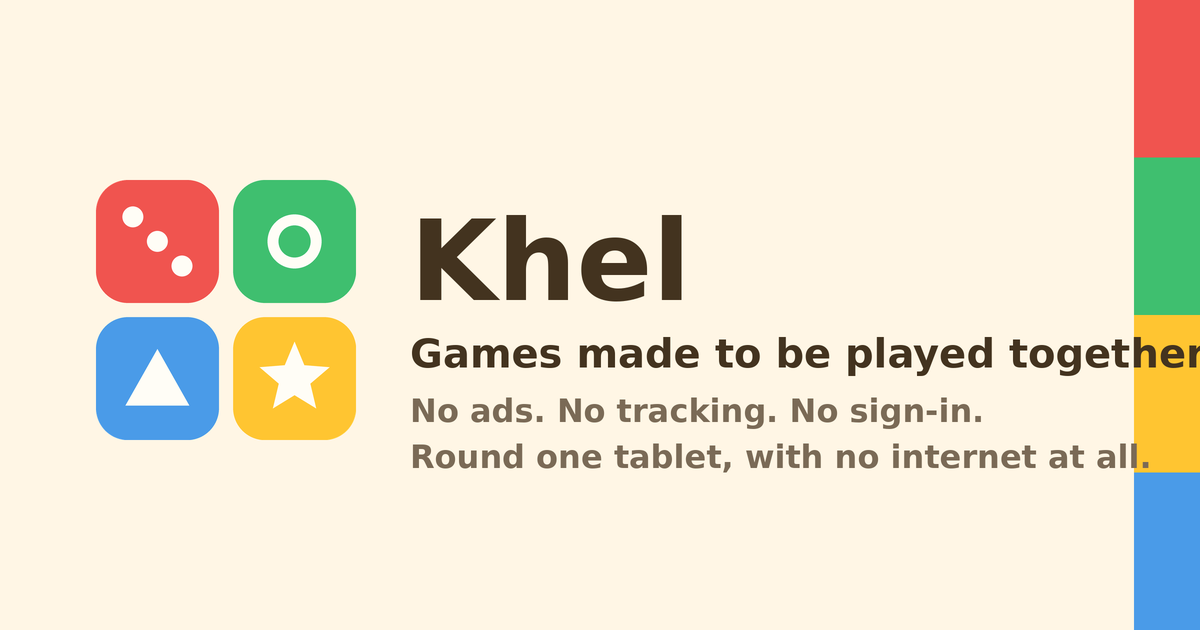
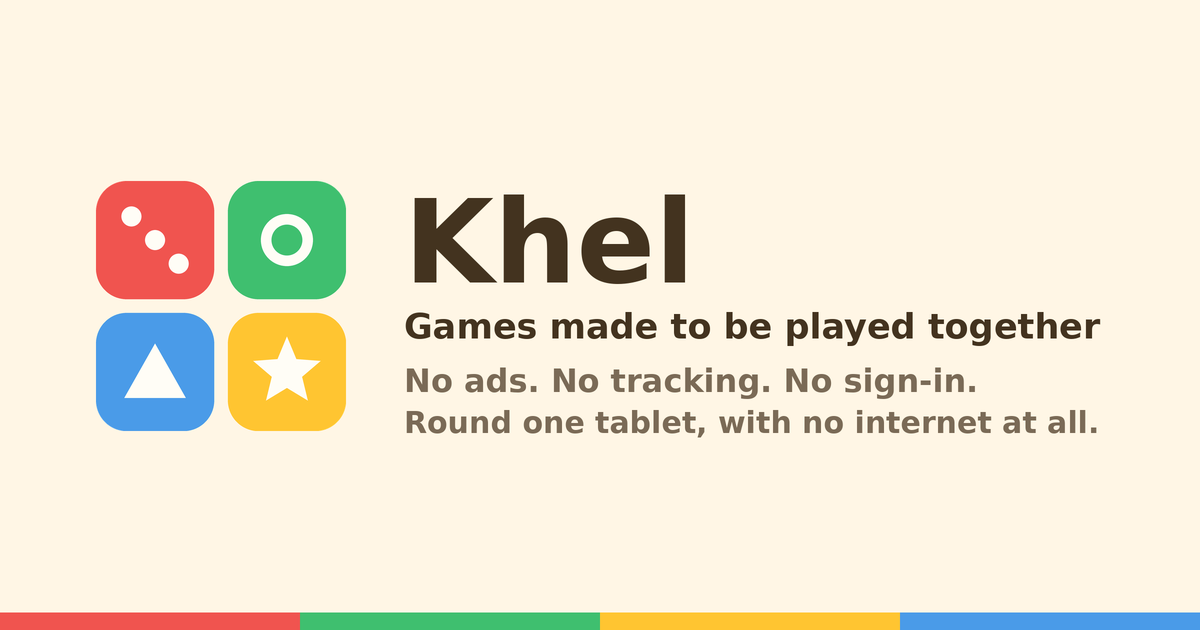
Chueen, Mamma and Dada — and animals to play against
The family starts as the three of them, with the first two seated,
since that's who is usually holding the tablet. Anyone else is added
when they turn up.

The computer's players are animals in the colour of the piece they're
playing: Red Panda, Green Frog, Yellow Duck, Blue Whale. Better to
root against than a robot, and easier to say. The seat card shows the
animal alone — the piece beside it already says the colour, and the
full name was being cut off.

The link preview card was spilling its text off the right edge after
the wording changed and nobody re-measured. Every line is now measured
and shrunk to fit, the build fails rather than shipping a sliced word,
and the colour band moved to the bottom where no crop can reach it.
The sanity check also verifies the image is the size the meta tags
claim.

Changed region(s): [[0.0, 0.0, 1.0, 1.0], [0.0617, 0.2714, 0.3083, 0.7238], [0.0925, 0.3317, 0.1233, 0.3619]]

diff --git a/js/table.js b/js/table.js
@@ -19,10 +19,11 @@ import { sfx, unlock } from './audio.js';
  * @param opts.game      'ludo' — used for this game's own seats and scores
  * @param opts.order     colour keys, in turn order
  * @param opts.colors    { red: { main, dark, name }, … }
- * @param opts.cpuNames  { red: 'Robo Red', … }
+ * @param opts.cpuNames  { red: 'Red Panda', … }
+ * @param opts.cpuFaces  { red: '🐼', … }
  */
 export function createTable(opts) {
-  const { seatsEl, playEl, resetEl, pickEl, game, order, colors, cpuNames } = opts;
+  const { seatsEl, playEl, resetEl, pickEl, game, order, colors, cpuNames, cpuFaces } = opts;
   const KEY = { seats: `khel.${game}.seats`, tally: `khel.${game}.tally` };
 
   const read = (key, fallback) => {
@@ -86,8 +87,11 @@ export function createTable(opts) {
       const colour = card.dataset.colour;
       const who = occupants[colour];
       card.dataset.state = who === 'cpu' ? 'cpu' : (isPerson(who) ? 'human' : 'off');
+      // the piece already says which colour it is, so the card only needs
+      // the animal — the full "Yellow Duck" shows wherever there's room
+      const animal = cpuNames[colour].split(' ').pop();
       card.querySelector('[data-role="who"]').textContent =
-        who === 'cpu' ? `🤖 ${cpuNames[colour]}` : (isPerson(who) ? family.label(who) : 'Empty');
+        who === 'cpu' ? `${cpuFaces[colour]} ${animal}` : (isPerson(who) ? family.label(who) : 'Empty');
 
       const wins = isPerson(who) ? (tally[who] || 0) : 0;
       card.querySelector('[data-role="tally"]').textContent = wins ? `🏆 ${wins}` : '';
@@ -122,7 +126,7 @@ export function createTable(opts) {
           ${taken.has(m.id) ? '<span class="pick-note">already playing</span>' : ''}
         </button>`),
       `<button class="pick-option" data-who="cpu">
-         <span class="pick-dot pick-robot">🤖</span>
+         <span class="pick-dot pick-robot">${cpuFaces[colour]}</span>
          <span class="pick-name">${cpuNames[colour]}</span>
          ${occupants[colour] === 'cpu' ? '<span class="pick-tick">✓</span>' : ''}
        </button>`,

diff --git a/games/ludo/config.js b/games/ludo/config.js
@@ -27,10 +27,13 @@ export const COLORS = {
   blue:   { main: '#4A9BE8', dark: '#2E76B8', light: '#D3E8FB', name: 'Blue' },
 };
 
-/* Friendlier than "Player 2" when a seat is taken by the computer */
+/* The computer's players. An animal a four-year-old can name, in the
+   colour of the piece it's playing — easier to root against than a robot. */
 export const CPU_NAMES = {
-  red: 'Robo Red', green: 'Go-Go Green', yellow: 'Sunny Yellow', blue: 'Bubbly Blue',
+  red: 'Red Panda', green: 'Green Frog', yellow: 'Yellow Duck', blue: 'Blue Whale',
 };
+
+export const CPU_FACES = { red: '🐼', green: '🐸', yellow: '🦆', blue: '🐳' };
 
 /* ── the 52-cell loop, clockwise, starting at Red's start square ── */
 export const TRACK = [

diff --git a/games/ludo/index.js b/games/ludo/index.js
@@ -6,7 +6,7 @@
    created here and torn down again in unmount().
    ═══════════════════════════════════════════════════════════════ */
 
-import { ORDER, COLORS, CPU_NAMES, cellOf } from './config.js';
+import { ORDER, COLORS, CPU_NAMES, CPU_FACES, cellOf } from './config.js';
 import { createController } from './game.js';
 import { createTable } from '../../js/table.js';
 import { unlock } from '../../js/audio.js';
@@ -118,6 +118,7 @@ export function mount(host, shell) {
     order: ORDER,
     colors: COLORS,
     cpuNames: CPU_NAMES,
+    cpuFaces: CPU_FACES,
   });
 
   /* ── screens ── */

diff --git a/games/snakes/index.js b/games/snakes/index.js
@@ -2,7 +2,7 @@
    games/snakes/index.js — Snakes & Ladders' entry point.
    ═══════════════════════════════════════════════════════════════ */
 
-import { ORDER, COLORS, CPU_NAMES } from './config.js';
+import { ORDER, COLORS, CPU_NAMES, CPU_FACES } from './config.js';
 import { createController } from './game.js';
 import { createTable } from '../../js/table.js';
 import { unlock } from '../../js/audio.js';
@@ -112,6 +112,7 @@ export function mount(host, shell) {
     order: ORDER,
     colors: COLORS,
     cpuNames: CPU_NAMES,
+    cpuFaces: CPU_FACES,
   });
 
   const showSetup = () => {

diff --git a/games/snakes/config.js b/games/snakes/config.js
@@ -23,9 +23,13 @@ export const COLORS = {
   blue:   { main: '#4A9BE8', dark: '#2E76B8', light: '#D3E8FB', name: 'Blue' },
 };
 
+/* The computer's players. An animal a four-year-old can name, in the
+   colour of the piece it's playing — easier to root against than a robot. */
 export const CPU_NAMES = {
-  red: 'Robo Red', green: 'Go-Go Green', yellow: 'Sunny Yellow', blue: 'Bubbly Blue',
+  red: 'Red Panda', green: 'Green Frog', yellow: 'Yellow Duck', blue: 'Blue Whale',
 };
+
+export const CPU_FACES = { red: '🐼', green: '🐸', yellow: '🦆', blue: '🐳' };
 
 /* The classic board, with two changes: the square-1 ladder starts at 2
    instead (everyone is standing on 1), and the vicious 98 → 78 snake is

diff --git a/sw.js b/sw.js
@@ -9,7 +9,7 @@
    keep serving the version they already have.
    ═══════════════════════════════════════════════════════════════ */
 
-const CACHE = 'khel-v3';
+const CACHE = 'khel-v4';
 
 const ASSETS = [
   './',

diff --git a/js/family.js b/js/family.js
@@ -17,7 +17,7 @@ export const TINTS = [
   '#9B6BD6', '#F08A3C', '#38B7B0', '#E86FA6',
 ];
 
-const SEED = ['Chueen', 'Mama'];   // everyone else gets added when they turn up
+const SEED = ['Chueen', 'Mamma', 'Dada'];   // anyone else gets added when they turn up
 export const MAX_MEMBERS = 8;
 
 let members = [];

diff --git a/tools/make-icons.py b/tools/make-icons.py
@@ -78,32 +78,10 @@ print("icons written")
 
 
 # ── the card that shows when the link is pasted into a chat ──────────
-
-def share_card(w=1200, h=630):
-    S = 2                                          # supersample
-    img = Image.new("RGB", (w * S, h * S), CREAM)
-    d = ImageDraw.Draw(img)
-
-    # the four colours as a soft band down the right
-    band = int(w * S * 0.055)
-    for i, c in enumerate((RED, GREEN, YELLOW, BLUE)):
-        y0 = h * S * i / 4
-        d.rectangle((w * S - band, y0, w * S, y0 + h * S / 4), fill=c)
-
-    tile = icon(int(260 * S), pad_ratio=0.0, radius_ratio=0.20)
-    img.paste(tile, (int(96 * S), int(180 * S)), tile)
-
-    x = int(410 * S)
-    d.text((x, int(196 * S)), "Khel", fill="#43331F", font=_font(int(112 * S)))
-    d.text((x, int(330 * S)), "Games made to be played together",
-           fill="#43331F", font=_font(int(40 * S)))
-    d.text((x, int(392 * S)), "No ads. No tracking. No sign-in.",
-           fill="#7A6A56", font=_font(int(32 * S)))
-    d.text((x, int(438 * S)), "Round one tablet, with no internet at all.",
-           fill="#7A6A56", font=_font(int(32 * S)))
-
-    return img.resize((w, h), Image.LANCZOS)
-
+#
+# WhatsApp and the rest show this at 1200 x 630. Every line is measured
+# and shrunk to fit its box, and the build fails rather than shipping a
+# card with a word sliced off the edge.
 
 def _font(size):
     from PIL import ImageFont
@@ -117,6 +95,60 @@ def _font(size):
         except OSError:
             continue
     return ImageFont.load_default(size)
+
+
+def _width(d, text, font):
+    return d.textbbox((0, 0), text, font=font)[2]
+
+
+def _fit(d, text, size, box):
+    """Largest font at or below `size` that keeps `text` inside `box` pixels."""
+    while size > 12:
+        font = _font(size)
+        if _width(d, text, font) <= box:
+            return font
+        size -= 2
+    raise SystemExit(f"share card: no size fits {text!r} into {box}px")
+
+
+def share_card(w=1200, h=630):
+    S = 2                                          # supersample
+    W, H = w * S, h * S
+    img = Image.new("RGB", (W, H), CREAM)
+    d = ImageDraw.Draw(img)
+
+    # the four colours as a strip along the bottom, where nothing can
+    # collide with them and no crop takes a bite out of the wordmark
+    strip = int(H * 0.028)
+    for i, c in enumerate((RED, GREEN, YELLOW, BLUE)):
+        d.rectangle((W * i / 4, H - strip, W * (i + 1) / 4, H), fill=c)
+
+    pad = int(96 * S)
+    tile_size = int(250 * S)
+    tile = icon(tile_size, pad_ratio=0.0, radius_ratio=0.20)
+    tile_y = (H - strip - tile_size) // 2
+    img.paste(tile, (pad, tile_y), tile)
+
+    x = pad + tile_size + int(58 * S)
+    box = W - pad - x                              # everything must fit in here
+
+    lines = [
+        ("Khel", 116, "#43331F", 0),
+        ("Games made to be played together", 42, "#43331F", 22),
+        ("No ads. No tracking. No sign-in.", 32, "#7A6A56", 16),
+        ("Round one tablet, with no internet at all.", 32, "#7A6A56", 6),
+    ]
+
+    fitted = [(text, _fit(d, text, size * S, box), colour, gap * S) for text, size, colour, gap in lines]
+    total = sum(d.textbbox((0, 0), t, font=f)[3] + g for t, f, _, g in fitted)
+
+    y = (H - strip - total) // 2
+    for text, font, colour, gap in fitted:
+        y += gap
+        d.text((x, y), text, fill=colour, font=font)
+        y += d.textbbox((0, 0), text, font=font)[3]
+
+    return img.resize((w, h), Image.LANCZOS)
 
 
 share_card().save("icons/share-card.png")

diff --git a/README.md b/README.md
@@ -35,6 +35,14 @@ tap ＋ to add someone, and their wins across every game show beside their name.
 the house scoreboard as well as the roster. Removing someone takes their scores with
 them, and asks twice.
 
+A fresh device starts with Chueen, Mamma and Dada, and seats the first two, who are
+usually the ones holding the tablet. Everyone else gets added when they turn up.
+
+The computer's players are animals in the colour of the piece they're playing — Red
+Panda, Green Frog, Yellow Duck, Blue Whale. Easier to root against than "Player 2",
+and easier to say out loud. The seat card shows only the animal, since the piece
+beside it already says which colour it is.
+
 `js/family.js` owns all of it, and carries the old name-keyed scores across on first
 load so nothing built up before this is lost.
 
